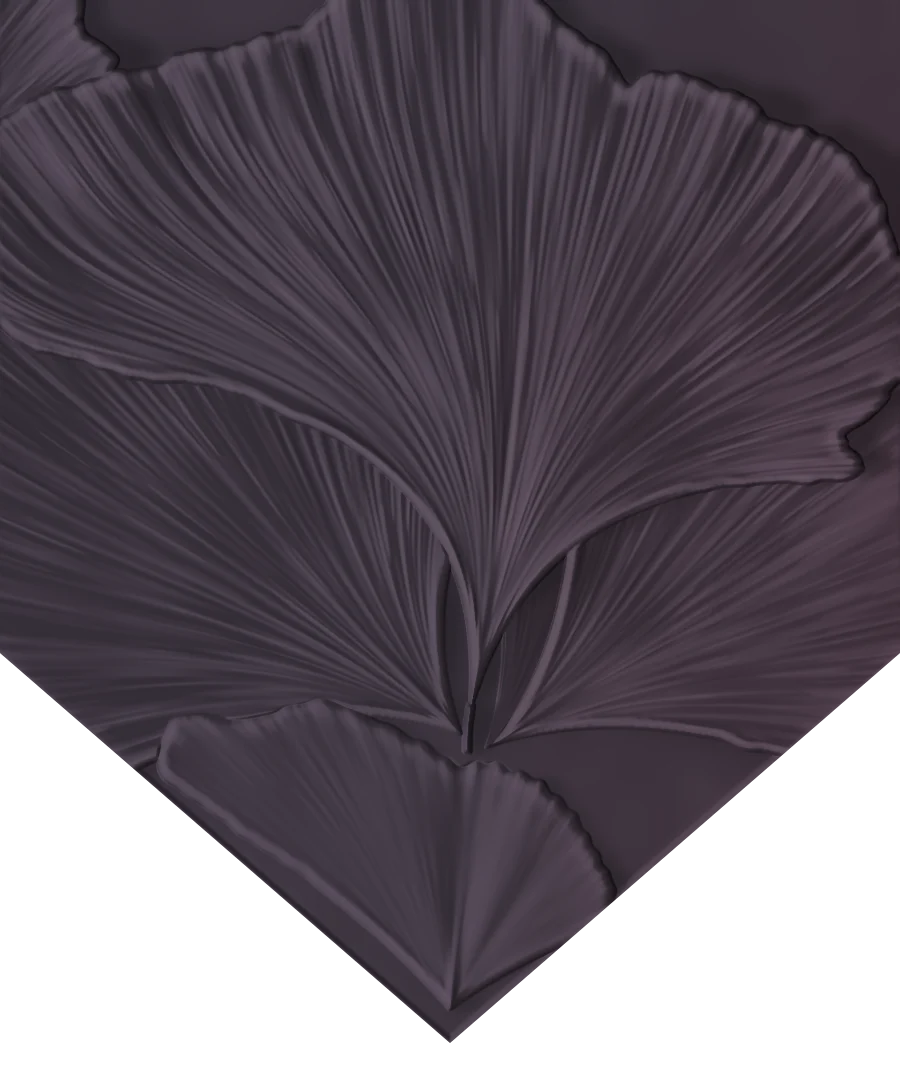
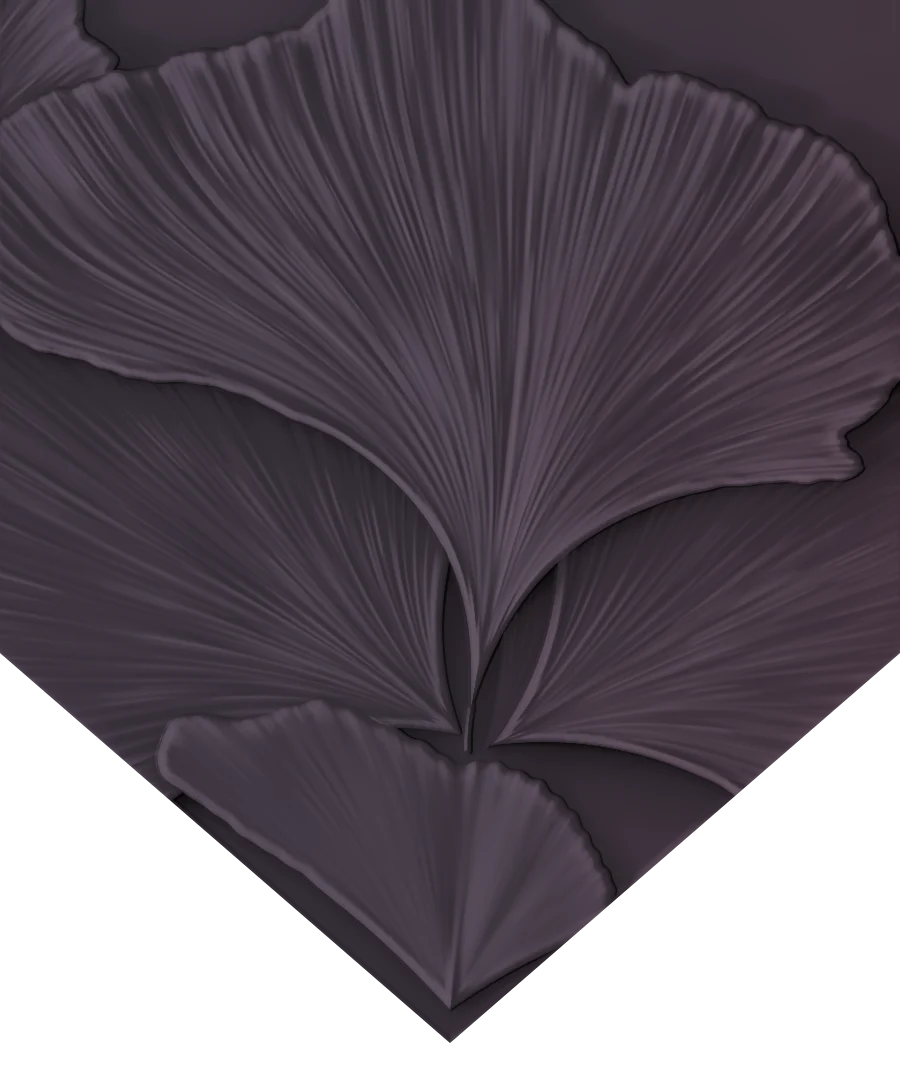
Website: lighter thinner fabric folds, stacked leaves with contact shadows on the envelope, deeper wax seal

diff --git a/Wedding Website/style.css b/Wedding Website/style.css
@@ -190,11 +190,11 @@ body.revealed .c-line:nth-child(8) { transition-delay: .24s; }
 .seal {
   position: absolute; left: 50%; top: 51.3%; width: 37.8%; aspect-ratio: 600 / 720; transform: translate(-50%, -50%); z-index: 6;
   background: url(assets/seal.webp) center / 100% 100% no-repeat; border: 0; border-radius: 46%; padding: 0; cursor: pointer;
-  filter: drop-shadow(0 6px 7px rgba(38,22,34,.55)); transition: transform .25s ease;
+  filter: drop-shadow(0 1px 1.5px rgba(30,16,26,.5)) drop-shadow(3px 7px 8px rgba(34,18,30,.62)) drop-shadow(6px 14px 18px rgba(34,18,30,.44)); transition: transform .25s ease;
   -webkit-tap-highlight-color: transparent; animation: sealGlow 2.8s ease-in-out infinite; transform-origin: 50% 50%;
 }
 .seal:active { transform: translate(-50%, -50%) scale(.96); }
-@keyframes sealGlow { 0%,100% { filter: drop-shadow(0 6px 7px rgba(38,22,34,.55)); } 50% { filter: drop-shadow(0 6px 7px rgba(38,22,34,.55)) drop-shadow(0 0 12px rgba(255,240,250,.55)); } }
+@keyframes sealGlow { 0%,100% { filter: drop-shadow(0 1px 1.5px rgba(30,16,26,.5)) drop-shadow(3px 7px 8px rgba(34,18,30,.62)) drop-shadow(6px 14px 18px rgba(34,18,30,.44)) drop-shadow(0 0 12px rgba(255,240,250,0)); } 50% { filter: drop-shadow(0 1px 1.5px rgba(30,16,26,.5)) drop-shadow(3px 7px 8px rgba(34,18,30,.62)) drop-shadow(6px 14px 18px rgba(34,18,30,.44)) drop-shadow(0 0 12px rgba(255,240,250,.5)); } }
 /* the hint: a small frosted pill just under the seal (legible on any part of the leaves) */
 .tap-hint { position: absolute; left: 50%; top: calc(51.3% + calc(var(--u) * 22) + 16px); transform: translateX(-50%); z-index: 4; white-space: nowrap;
   padding: .62em 1.35em .6em 1.5em; border-radius: 99px; background: rgba(66,50,63,.58); border: 1px solid rgba(255,246,252,.42);

diff --git a/Wedding Website/app.js b/Wedding Website/app.js
@@ -195,7 +195,7 @@
       const Z = Ls * Math.sin(a), m = P / (P - Z), dy = Ls * Math.cos(a) * m - Ls;
       const sq = lerpTab(SEAL_SQUASH, deg);
       seal.style.transform = `translate(-50%, -50%) translateY(${dy.toFixed(2)}px) scale(${m.toFixed(4)}, ${(m * sq).toFixed(4)})`;
-      seal.style.filter = `brightness(${lerpTab(SEAL_LIGHT, deg).toFixed(3)}) drop-shadow(0 ${(6 + deg / 9).toFixed(1)}px ${(7 + deg / 12).toFixed(1)}px rgba(38,22,34,.5))`;
+      seal.style.filter = `brightness(${lerpTab(SEAL_LIGHT, deg).toFixed(3)}) drop-shadow(0 1px 1.5px rgba(30,16,26,.5)) drop-shadow(3px ${(7 + deg / 14).toFixed(1)}px 8px rgba(34,18,30,.62)) drop-shadow(6px ${(14 + deg / 7).toFixed(1)}px ${(18 + deg / 9).toFixed(1)}px rgba(34,18,30,.44))`;
       seal.style.opacity = String(1 - clamp01((deg - 92) / 6));
       flap.style.opacity = deg > 94 ? "0" : "1";              // past vertical it would only show as a sliver
       pocket.style.opacity = (lerpTab(POCKET, T) * pocketOut).toFixed(3);

diff --git a/Wedding Website/tools/ginkgo_env.py b/Wedding Website/tools/ginkgo_env.py
@@ -84,6 +84,8 @@ def shade_sheet(hgt, tint):
 GLOSS_K = 0.24                # strength of the painted sheen (before the tone match)
 SHADOW_K = 0.56               # depth of the cast shadows (soft, never an ink outline)
 AO_K = (0.05, 0.30)           # contact / broad ambient occlusion
+DROP_K = (0.46, 0.58, 0.30)         # tight / wide contact shadow under every overlapping leaf (the stacked look)
+LAYER_LIFT = 2.0              # extra height of each leaf above what it lies on (design px)
 GLOSS = np.array([250, 246, 255], np.float32)     # silvery sheen painted on rolled rims, veins and paper edges
 
 # ------------------------------------------------------------------ ginkgo leaf
@@ -263,8 +265,9 @@ class Canvas:
         self.alb = np.ones((h, w), np.float32)
         self.gl = np.zeros((h, w), np.float32)
         self.dark = np.zeros((h, w), np.float32)
+        self.drop = np.zeros((h, w), np.float32)      # contact shadows each leaf drops on the layers beneath it
 
-    def layer(self, f, clip=None, tint=0.0, lift=0.0, tone=1.0):
+    def layer(self, f, clip=None, tint=0.0, lift=0.0, tone=1.0, drop=1.0):
         """drape a leaf over what is already there"""
         if f is None: return
         x0, y0, a, hgt = f[:4]
@@ -272,7 +275,14 @@ class Canvas:
         if clip is not None: a = a * clip[y0:y0 + hh, x0:x0 + ww]
         reg = self.hg[y0:y0 + hh, x0:x0 + ww]
         base = cv2.GaussianBlur(reg, (0, 0), 38 * SS)
-        reg[:] = reg * (1 - a) + (base + hgt + lift) * a
+        reg[:] = reg * (1 - a) + (base + hgt + lift + LAYER_LIFT * HSCALE) * a
+        if drop:                                       # the leaf lies ON what is there: a tight contact shadow + a wide soft one
+            ap = cv2.copyMakeBorder(a, 0, 0, 0, 0, cv2.BORDER_CONSTANT)
+            s1 = cv2.GaussianBlur(cv2.warpAffine(ap, np.float32([[1, 0, 2 * SS], [0, 1, 6 * SS]]), (ww, hh)), (0, 0), 5.0 * SS)
+            s2 = cv2.GaussianBlur(cv2.warpAffine(ap, np.float32([[1, 0, 7 * SS], [0, 1, 24 * SS]]), (ww, hh)), (0, 0), 22 * SS)
+            dr = self.drop[y0:y0 + hh, x0:x0 + ww]
+            s3 = cv2.GaussianBlur(cv2.warpAffine(ap, np.float32([[1, 0, 10 * SS], [0, 1, 40 * SS]]), (ww, hh)), (0, 0), 48 * SS)
+            dr[:] = (1 - (1 - dr) * (1 - drop * DROP_K[0] * s1) * (1 - drop * DROP_K[1] * s2) * (1 - drop * DROP_K[2] * s3)) * (1 - a)
         if tint:
             tr = self.tint[y0:y0 + hh, x0:x0 + ww]; tr[:] = np.clip(tr + tint * a, 0, 1)
         ar = self.alb[y0:y0 + hh, x0:x0 + ww]; ar[:] = ar * (1 - a) + tone * a
@@ -280,8 +290,8 @@ class Canvas:
 
     def render(self):
         rgb, sh = shade_sheet(self.hg, self.tint)
-        rgb = rgb * (self.alb * (1 - self.dark))[..., None]
-        g = cv2.GaussianBlur(self.gl, (0, 0), max(0.5, 0.8 * SS)) * (0.40 + 0.60 * (1 - sh)) * (1 - self.dark)
+        rgb = rgb * (self.alb * (1 - self.dark) * (1 - self.drop))[..., None]
+        g = cv2.GaussianBlur(self.gl, (0, 0), max(0.5, 0.8 * SS)) * (0.40 + 0.60 * (1 - sh)) * (1 - self.dark) * (1 - self.drop)
         return np.clip(rgb + GLOSS_K * g[..., None] * GLOSS[None, None], 0, 255)
 
 def luma(rgb):
@@ -322,6 +332,8 @@ BOT_T, HEM_T = 8.0, 3.5                       # paper thickness of the bottom fl
 SIDE_LEAVES = [                               # on the two side flaps (the bottom flap lies over their lower ends)
     dict(cx=-20, cy=630, seed=100, tone=0.92, ruffle=0.8, f0=0.6, veins=0.55, bend=14, lumps=1.1, cup=0.7,
          pts=[(420, 930), (370, 1000), (335, 1080), (285, 1160), (150, 1225), (-10, 1270), (-90, 1270)]),                 # L1 streaky, fills the left flap
+    dict(cx=1010, cy=1520, R=540, ang=-124, spread=36, seed=115, tint=0.10, tone=0.95, veins=0.3, ruffle=0.9, f0=0.4, lumps=0.8),   # R2 under R0, fills the lower right
+    dict(cx=350, cy=1500, R=440, ang=-84, spread=36, seed=104, tone=0.96, veins=0.45, ruffle=1.0, f0=0.3),   # L3 lies over the foot of L1, left of the seal
     dict(cx=930, cy=960, seed=113, tint=0.10, ruffle=1.2, veins=0.2, f0=0.5, cup=0.3, fold=0.2, lumps=0.9,
          pts=[(700, 845), (690, 800), (705, 762), (780, 748), (835, 772), (890, 790)]),                 # R1 small, upper right
     dict(cx=190, cy=1440, seed=102, tone=0.94, f0=0.2,
@@ -349,9 +361,9 @@ BODY_CREASE = [(452, 990), (454, 1250), (455, 1500)]                            
 BODY_TWIG = [(455, 1490), (457, 1650), (472, 1790), (486, 1900), (493, 1965)]
 FLAP_LEAVES = [
     dict(cx=-150, cy=250, R=340, ang=-50, spread=45, seed=205),                           # top-left corner
-    dict(cx=462, cy=735, R=680, ang=-134, spread=60, seed=202, ruffle=0.7, tone=0.93, f0=0.45),    # F2 lower left
+    dict(cx=462, cy=735, R=700, ang=-138, spread=66, seed=202, ruffle=0.7, tone=0.93, f0=0.45),    # F2 lower left
     dict(cx=486, cy=748, R=520, ang=-46, spread=48, seed=206, tint=0.06, f0=0.6, tone=0.74, rim=0.0, veins=0.5, thick=2.0),   # in the shade under F1
-    dict(cx=492, cy=745, R=560, ang=-34, spread=42, seed=201, tint=0.06, f0=0.45),                 # F3 lower right
+    dict(cx=492, cy=745, R=600, ang=-30, spread=52, seed=201, tint=0.06, f0=0.45),                 # F3 lower right
     dict(cx=450, cy=1010, seed=204, f0=0.85, ruffle=0.5, curl=0.15, rim=0.5, tone=1.06, veins=0.15, lumps=0.5,
          pts=[(150, 770), (175, 712), (240, 722), (330, 700), (350, 712), (410, 740), (450, 765), (500, 762), (560, 800),
               (600, 860), (625, 920)]),                                                   # F4 smooth, over the tip
@@ -363,8 +375,8 @@ FLAP_LEAVES = [
 
 def _lay(cv, specs, clip, bb):
     for p in specs:
-        p = dict(p); tint = p.pop("tint", 0.0); tone = p.pop("tone", 1.0)
-        cv.layer(leaf_fields(**p, bbox=bb), clip, tint=tint, tone=tone)
+        p = dict(p); tint = p.pop("tint", 0.0); tone = p.pop("tone", 1.0); drop = p.pop("drop", 1.0)
+        cv.layer(leaf_fields(**p, bbox=bb), clip, tint=tint, tone=tone, drop=drop)
 
 def body_geometry(yy, xx):
     """-> (px inside the side flaps measured from the mouth edge, px inside the bottom flap measured from its edge)"""
@@ -412,6 +424,7 @@ def build_body():
     cv.gl = cs.gl * (1 - m) + (cb.gl * (1 - seam_hi) + 1.5 * seam_hi) * m
     cv.dark = np.maximum(cs.dark * (1 - m), (0.36 + 0.34 * (xx > W / 2)) * np.exp(-np.clip(-dbf, 0, None) / (11.0 + 5.0 * (xx > W / 2))) * (1 - m))   # its soft shadow on the side flaps
     cv.tint = np.clip(cv.tint - 0.05 * m, 0, 1)
+    cv.drop = cs.drop * (1 - m) + cb.drop * m
     rgb = cv.render()
     return rgb, sides
 
@@ -446,7 +459,6 @@ def build_seal(mono=("A", "L")):
     yy, xx = np.mgrid[0:SH, 0:SW].astype(np.float32)
     cx, cy = SW / 2, SH / 2
     ang = np.arctan2(yy - cy, xx - cx)
-    rr = np.random.default_rng(5)
     # irregular outer wax outline (an ellipse with soft lumps and one flattened side)
     wob = (0.014 * np.sin(ang * 3 + 0.7) + 0.010 * np.sin(ang * 5 + 2.1) + 0.012 * np.sin(ang * 6 + 0.3)
            + 0.004 * np.sin(ang * 13 + 1.9) + 0.030 * np.exp(-((ang - 0.25) / 0.22) ** 2) + 0.018 * np.exp(-((ang + 2.6) / 0.3) ** 2))
@@ -459,33 +471,47 @@ def build_seal(mono=("A", "L")):
     rs = np.sqrt(((xx - cx) / sa) ** 2 + ((yy - cy) / sb) ** 2)
     dist_s = (1 - rs) * 200                                          # ~px inside the stamp edge
     u = np.clip(np.clip(d_o, 0, None) / (np.clip(d_o, 0, None) + np.clip(-dist_s, 0, None) + 1e-3), 0, 1)
-    rim = np.where(u < 0.5, 36 * np.sin(np.clip(u, 0, 0.5) * math.pi) ** 0.55, 20 + 16 * np.cos((u - 0.5) * math.pi))   # rounded roll of wax
-    press = smooth01((dist_s + 3) / 12.0)
-    h = rim * (1 - press) + 12.0 * press                             # steep inner wall, flat pressed field
-    h += 3.0 * (noise(SH, SW, 90, 3, 41) - 0.5) * (1 - press) + 0.25 * (noise(SH, SW, 25, 2, 42) - 0.5)
-    # double oval border inside the stamp
-    def ring(off, w, amp):
+    RIM, WELL = 58.0, 13.0                                           # a thick roll of wax standing well proud; deep pressed field
+    rim = np.where(u < 0.5, RIM * np.sin(np.clip(u, 0, 0.5) * math.pi) ** 0.5, 0.6 * RIM + 0.4 * RIM * np.cos((u - 0.5) * math.pi))
+    press = smooth01((dist_s + 4) / 13.0)
+    h = rim * (1 - press) + WELL * press                             # steep inner wall, flat pressed field
+    h += 4.5 * (noise(SH, SW, 90, 3, 41) - 0.5) * (1 - press) + 0.3 * (noise(SH, SW, 25, 2, 42) - 0.5)
+    def ring(off, w, amp):                                           # double oval border inside the stamp
         return amp * np.exp(-((dist_s - off) / w) ** 2)
-    h += ring(9, 3.0, 4.0) + ring(22, 2.2, 3.0)
-    # monogram: A (upper left) & L (lower right), raised
+    h -= 9.0 * np.clip(1 - rs ** 2, 0, 1) * press                    # the pressed field is slightly dished
+    h += ring(10, 3.4, 7.0) + ring(24, 2.4, 4.5)
+    # monogram: A (upper left) & L (lower right), raised with a rounded top
     cw, ch = SW, SH
     m = np.maximum(np.maximum(_txt(mono[0], 268, cw, ch, (-26, -86)), _txt(mono[1], 268, cw, ch, (28, 92))),
                    _txt("&", 126, cw, ch, (4, 6)))
     m = cv2.dilate(m, np.ones((5, 5), np.uint8))
-    mh = cv2.GaussianBlur(m, (0, 0), 1.6)
-    h += 6.0 * mh * press
-    # little air pits on the rim and a lump on the right
+    mh = np.clip(cv2.GaussianBlur(m, (0, 0), 2.2) * 1.5 - 0.1, 0, 1) ** 0.8
+    mh = cv2.GaussianBlur(mh, (0, 0), 0.9)
+    h += 11.0 * mh * press
     for (px, py, pr) in [(92, 250, 4.5), (88, 285, 4), (94, 322, 3.5), (100, 352, 3), (505, 410, 8)]:
         d2 = ((xx - px) ** 2 + (yy - py) ** 2) / pr ** 2
-        h += (-4.0 if pr < 6 else 5.0) * np.exp(-d2)
+        h += (-5.0 if pr < 6 else 6.0) * np.exp(-d2)
     h = cv2.GaussianBlur(h, (0, 0), 0.8)
     gy, gx = np.gradient(h)
     n = np.dstack([-gx, -gy, np.ones_like(h)]); n /= np.linalg.norm(n, axis=2, keepdims=True)
     nl = (n * LIGHT).sum(2); nh = np.clip((n * HALF).sum(2), 0, 1)
     diff = np.clip(nl, 0, 1); wrap = np.clip((nl + 0.4) / 1.4, 0, 1)
-    base = np.array([102, 90, 96], np.float32) * (0.96 + 0.08 * noise(SH, SW, 120, 3, 43))[..., None]
-    lum = 0.20 + 0.42 * wrap + 0.36 * diff
-    col = base * lum[..., None] + np.array([230, 222, 228], np.float32) * (0.55 * nh ** 22 + 0.14 * nh ** 5)[..., None]
+    # self-shadow: march the height field toward the light (the rim shades the well, letters shade the field)
+    lxy = LIGHT[:2] / np.linalg.norm(LIGHT[:2]); tan_e = float(LIGHT[2] / np.linalg.norm(LIGHT[:2])) * 0.8
+    hp = np.where(blob > 0.02, h, 0)
+    occ = np.zeros_like(h)
+    for s in (2, 4, 6, 9, 12, 16, 21, 27, 34, 42, 52, 64):
+        M = np.float32([[1, 0, -lxy[0] * s], [0, 1, -lxy[1] * s]])
+        occ = np.maximum(occ, cv2.warpAffine(hp, M, (SW, SH), borderMode=cv2.BORDER_REPLICATE) - hp - s * tan_e)
+    shad = cv2.GaussianBlur(smooth01(occ / 7.0), (0, 0), 2.2)
+    # ambient occlusion: creases (foot of the inner wall, around letters and border lines) go dark
+    ao = np.clip((cv2.GaussianBlur(hp, (0, 0), 9) - hp) / 14.0, 0, 1) * 0.6 + np.clip((cv2.GaussianBlur(hp, (0, 0), 3) - hp) / 4.0, 0, 1) * 0.4
+    base = np.array([104, 90, 97], np.float32) * (0.96 + 0.08 * noise(SH, SW, 120, 3, 43))[..., None]
+    lit = 1 - 0.62 * shad
+    fill = np.clip((n * np.array([0.48, 0.62, 0.62], np.float32)).sum(2), 0, 1)      # light bounced back off the paper
+    lum = (0.19 + 0.36 * wrap + 0.62 * diff * lit + 0.13 * fill ** 2) * (1 - 0.55 * ao) * (1 - 0.13 * press)
+    spec = (0.85 * nh ** 30 + 0.30 * nh ** 7 + 0.16 * nh ** 2.5 * (1 - press)) * lit * (1 - 0.5 * ao)
+    col = base * lum[..., None] + np.array([238, 228, 234], np.float32) * spec[..., None]
     return np.clip(col, 0, 255), blob
 
 def build_envelope():

diff --git a/Wedding Website/tools/make_assets.py b/Wedding Website/tools/make_assets.py
@@ -455,10 +455,10 @@ def organza_rgba():
         d_in = cv2.distanceTransform(m, cv2.DIST_L2, 5) + wobble * m
         d_out = cv2.distanceTransform(1 - m, cv2.DIST_L2, 5)
         inside = smooth01(d_in / 3.0) * m
-        fold_layer = np.maximum(fold_layer, dens * inside)
-        fold_edge = np.maximum(fold_edge, np.exp(-((d_in - 5.0) / 6.5) ** 2) * m)                      # the rolled hem catches the light
-        fold_edge = np.maximum(fold_edge, 0.45 * np.exp(-((d_in - 34) / 7.0) ** 2) * m * (0.5 + 0.5 * _onoise(H, W, 160, 2, 80 + k)))  # one soft crease just inside
-        fold_shadow = np.maximum(fold_shadow, np.exp(-d_out / 16.0) * (1 - m))                         # and it shades the sheet beneath
+        fold_layer = np.maximum(fold_layer, dens * inside * (0.30 + (1 - 0.30) * np.exp(-d_in / 80.0)))   # thin: the doubled cloth shows mostly near its edge
+        fold_edge = np.maximum(fold_edge, np.exp(-((d_in - 3.0) / 3.2) ** 2) * m)                      # the rolled hem catches the light
+        fold_edge = np.maximum(fold_edge, 0.25 * np.exp(-((d_in - 34) / 7.0) ** 2) * m * (0.5 + 0.5 * _onoise(H, W, 160, 2, 80 + k)))  # one soft crease just inside
+        fold_shadow = np.maximum(fold_shadow, np.exp(-d_out / 12.0) * (1 - m))                         # and it shades the sheet beneath
     nrm = np.dstack([-gx, -gy, np.ones_like(h)]); nrm /= np.linalg.norm(nrm, axis=2, keepdims=True)
     l = np.array([-0.34, -0.60, 0.72]); l /= np.linalg.norm(l); hv = l + [0, 0, 1]; hv /= np.linalg.norm(hv)
     nh = np.clip((nrm * hv).sum(2), 0, 1); diff = np.clip((nrm * l).sum(2), 0, 1)
@@ -467,12 +467,12 @@ def organza_rgba():
     glow = np.clip((nh - lo) / (mid - lo), 0, 1) ** 1.6
     glint = np.clip((nh - mid) / (hi - mid), 0, 1) ** 1.5
     weave = 0.5 + 0.5 * np.sin((xx * 0.86 + yy * 0.5) * 2 * math.pi / 3.1) * np.sin((xx * -0.5 + yy * 0.86) * 2 * math.pi / 3.1)   # fine organza weave
-    hl = np.clip(0.40 * glow + 0.52 * glint + 0.24 * fold_layer + 0.30 * fold_edge, 0, 1) * (0.90 + 0.10 * weave)
+    hl = np.clip(0.40 * glow + 0.52 * glint + 0.13 * fold_layer + 0.18 * fold_edge, 0, 1) * (0.90 + 0.10 * weave)
     tint = _onoise(H, W, 200, 2, 8)[..., None]
     c_hl = np.array([250, 240, 248], np.float32) * (1 - tint) + np.array([236, 236, 255], np.float32) * tint
     c_veil = np.array([150, 122, 140], np.float32)                 # the film itself: a thin rosy-mauve veil
     shade = np.clip(1.0 - diff * 1.2, 0, 1)
-    a_veil = np.clip(0.12 + 0.42 * shade + 0.30 * fold_layer + 0.24 * fold_shadow, 0, 0.72)
+    a_veil = np.clip(0.12 + 0.42 * shade + 0.15 * fold_layer + 0.10 * fold_shadow, 0, 0.72)
     a_hl = np.clip(0.86 * hl, 0, 0.86)
     a = a_veil + a_hl * (1 - a_veil)
     rgb = (c_veil * (a_veil * (1 - a_hl))[..., None] + c_hl * a_hl[..., None]) / np.maximum(a[..., None], 1e-4)
